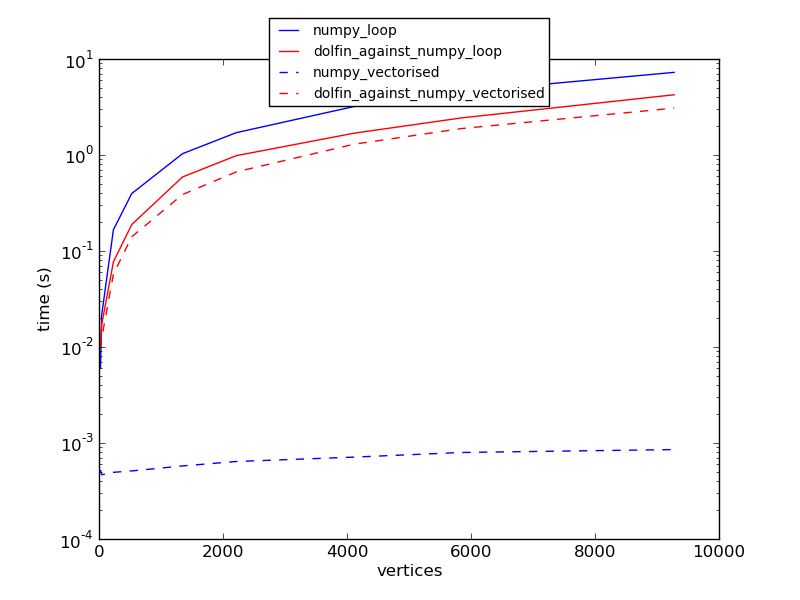
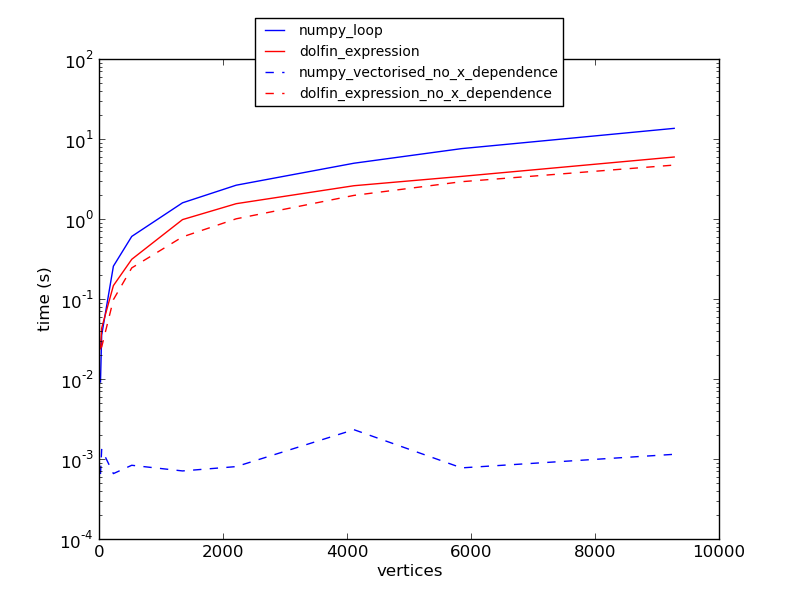
Changed names a little to make it (at least for me) clearer what happens.
Looking at the results, it seems the dolfin expression for no
spatial dependence are much slower than the numpy expression. This could come through the use of the fill() method in 'numpy_vectorised_no_x_dependence()'
which exploits our extra knowledge about the lack of x-dependence and
thus is fast.

It would be nice to compare a vectorised numpy version that includes the x-dependence with the spatially varying x. Can this be done with numpy?

diff --git a/sandbox/benchmarks/updating_expression.py b/sandbox/benchmarks/updating_expression.py
@@ -26,12 +26,14 @@ sinc_expr = df.Expression((
     "f_0"
     " * (fabs(x[0]) < eps ? 1 : sin(x[0])/x[0])"
     " * (fabs(t) < eps ? 1 : sin(t)/t)"), f_0 = f_0, t = 0.0, eps=eps)
-def dolfin_against_numpy_loop(t):
+
+#def dolfin_against_numpy_loop(t):
+def dolfin_expression(t):
     sinc_expr.t = t
     f = df.interpolate(sinc_expr, S)
     return f.vector().array()
 
-def numpy_vectorised(t):
+def numpy_vectorised_no_x_dependence(t):
     """
     function depends only on time
 
@@ -42,13 +44,13 @@ def numpy_vectorised(t):
     return f
 
 simple_expr = df.Expression("sin(t)", t=0)
-def dolfin_against_numpy_vectorised(t):
+def dolfin_expression_no_x_dependence(t):
     simple_expr.t = t
     f = df.interpolate(simple_expr, S)
     return f.vector().array()
 
 lines = ["b", "r", "b--", "r--"]
-for i, method in enumerate([numpy_loop, dolfin_against_numpy_loop, numpy_vectorised, dolfin_against_numpy_vectorised]):
+for i, method in enumerate([numpy_loop, dolfin_expression, numpy_vectorised_no_x_dependence, dolfin_expression_no_x_dependence]):
     vertices = []
     times = []
     for dL in [1, 2, 5, 7, 10, 12, 15, 17, 20]:
